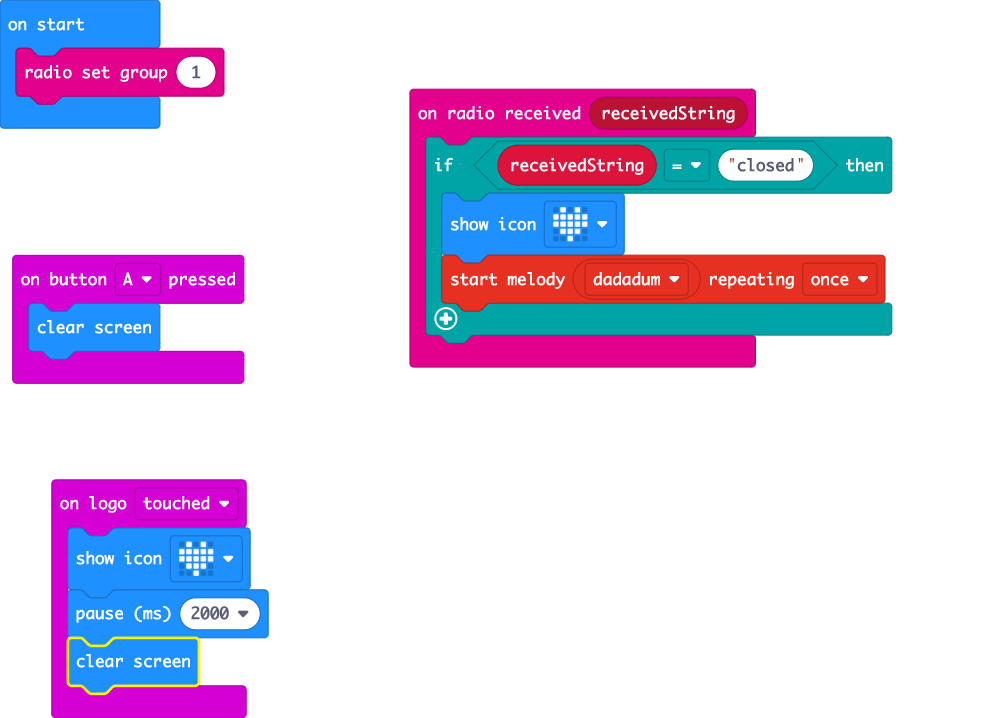
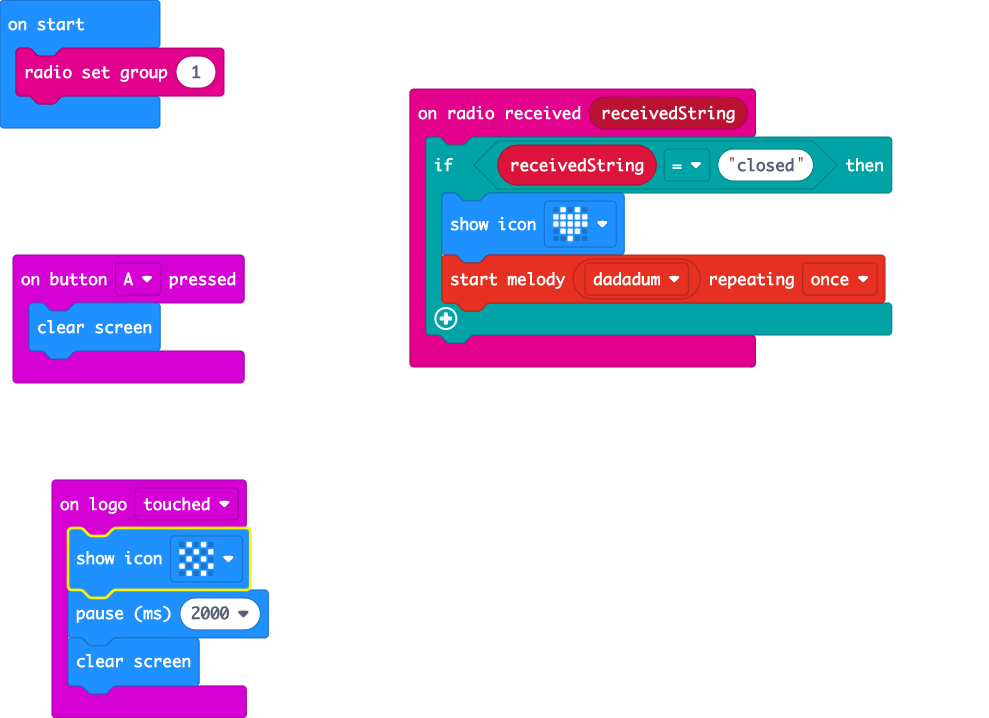
Update main.blocks, main.ts

diff --git a/main.ts b/main.ts
@@ -8,7 +8,7 @@ radio.onReceivedString(function (receivedString) {
     }
 })
 input.onLogoEvent(TouchButtonEvent.Touched, function () {
-    basic.showIcon(IconNames.Heart)
+    basic.showIcon(IconNames.Chessboard)
     basic.pause(2000)
     basic.clearScreen()
 })
